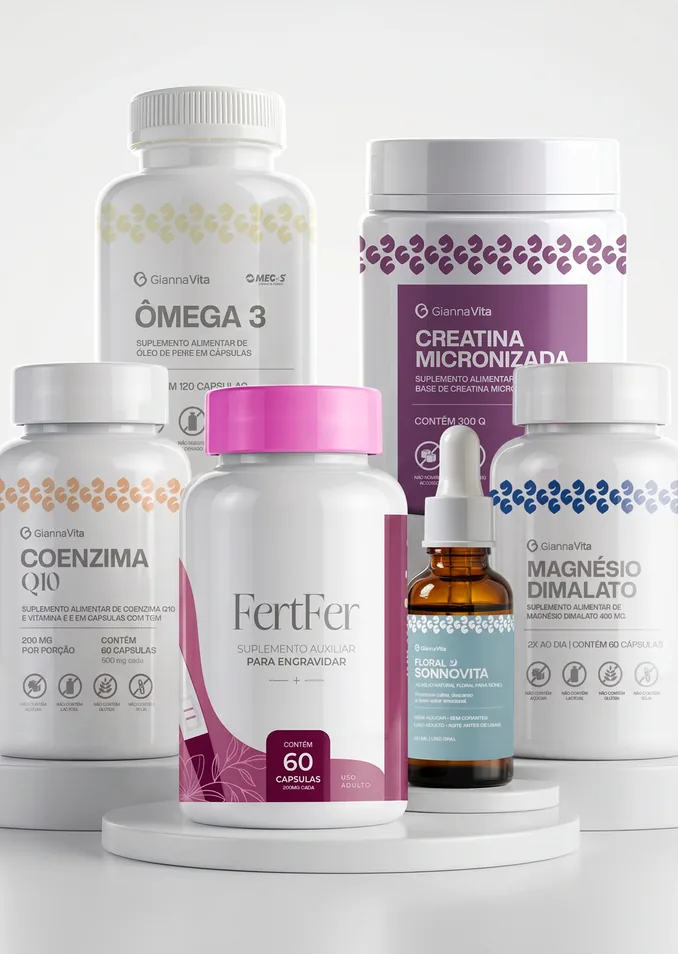
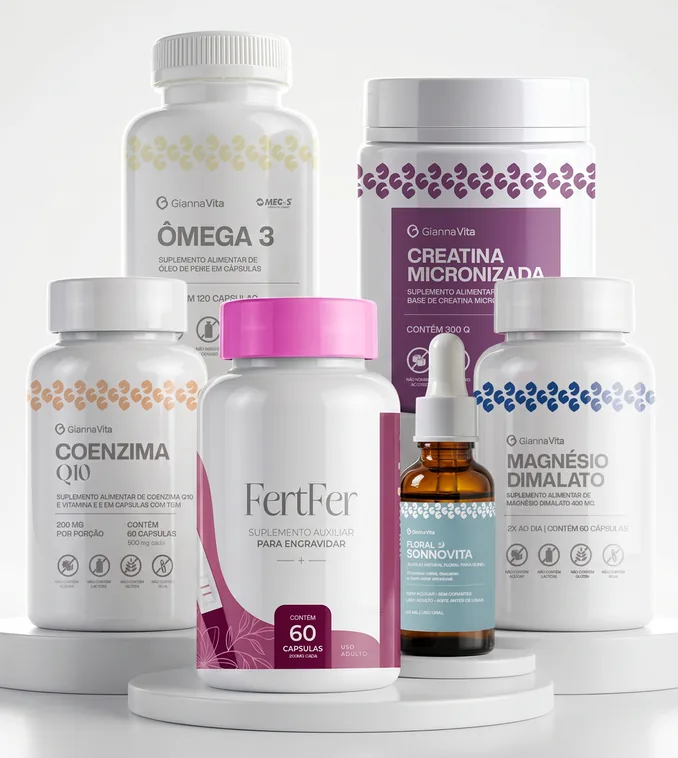
feat(pcbf26): checkout da página de vendas e aviso de envio do kit no upsell
- Vendas: link_checkout = checkout.grupoconceber.com/pay/black-friday-grupo-plataforma-consulta
  (Guru, "Programa Conceber BF", R$ 1.997,90 ou 12x R$ 197,90). Conferido
  no checkout real: name, email e phone_number chegam preenchidos.
  Liga o pré-checkout da página.
- Upsell: faixa vermelha "ENVIO A PARTIR DO DIA 05/11" no topo da foto do
  kit e foto reenquadrada, conforme o frame "UPSELL 2" do Figma (falta de
  estoque dos suplementos, pedido da Bruna).

diff --git a/pcbf26/upsell/index.html b/pcbf26/upsell/index.html
@@ -108,6 +108,14 @@ h1, h2, h3, p, ul { margin: 0; overflow-wrap: break-word; }
 .item-texto li { padding: clamp(5px, .7vw, 9px) 0; }
 .item-texto li + li { border-top: 1px solid #4a4a4a; }
 .item-img img { width: 100%; height: 100%; object-fit: cover; border-radius: 0 18px 18px 0; }
+/* aviso de envio do kit (Figma "UPSELL 2": faixa vermelha no topo da foto, por falta de estoque) */
+.item-img--kit { display: flex; flex-direction: column; background: #ee2f21; }
+.kit-envio {
+  padding: clamp(16px, 1.8vw, 23px) 8% clamp(14px, 1.4vw, 18px); color: var(--cinza); text-align: center;
+  font-size: var(--f24); font-weight: 800; text-transform: uppercase; line-height: 1.2;
+}
+@media (min-width: 901px) { .kit-envio { max-width: 11em; margin-inline: auto; padding-inline: 0; } }
+.item-img--kit img { flex: 1; min-height: 0; border-radius: 20px 20px 18px 0; }
 .kit { position: relative; }
 .kit-nota {
   margin-top: -91px; padding: calc(91px + clamp(18px, 2vw, 25px)) 8% clamp(24px, 2.5vw, 32px);
@@ -147,6 +155,8 @@ h1, h2, h3, p, ul { margin: 0; overflow-wrap: break-word; }
   .item { grid-template-columns: 1fr; }
   .item-img { order: -1; }
   .item-img img { height: auto; aspect-ratio: 16 / 10; border-radius: 18px 18px 0 0; }
+  .item-img--kit { border-radius: 18px 18px 0 0; overflow: hidden; }
+  .item-img--kit img { border-radius: 18px 18px 0 0; }
   .item-cabeca { margin-top: -2px; }
   .item h3, .item-texto > p, .item-texto ul { max-width: none; }
   .kit-nota { margin-top: -40px; padding: calc(40px + 22px) 18px 26px; }
@@ -215,8 +225,9 @@ h1, h2, h3, p, ul { margin: 0; overflow-wrap: break-word; }
                 <li>Creatina</li>
               </ul>
             </div>
-            <div class="item-img">
-              <img src="assets/kit-gianna-vita.webp" width="678" height="954" loading="lazy" alt="Kit Fertilidade Máxima Gianna Vita com cinco suplementos">
+            <div class="item-img item-img--kit">
+              <p class="kit-envio">Envio a partir do dia 05/11</p>
+              <img src="assets/kit-gianna-vita.webp" width="678" height="758" loading="lazy" alt="Kit Fertilidade Máxima Gianna Vita com cinco suplementos">
             </div>
           </article>
           <div class="kit-nota">

diff --git a/pcbf26/vendas/js/config.js b/pcbf26/vendas/js/config.js
@@ -3,7 +3,7 @@
    ============================================= */
 const CONFIG = {
   // Checkout da oferta Pink Friday (Guru ou Hotmart). Vazio = os botões levam pra seção da oferta, sem pré-checkout.
-  link_checkout: "",
+  link_checkout: "https://checkout.grupoconceber.com/pay/black-friday-grupo-plataforma-consulta",
 
   // Pré-checkout (mesmo fluxo da JPE: lead no process-lead e checkout com os dados preenchidos)
   lancamento: "PC-T57-BF",          // tag_form do "Programa Conceber BF" na tabela de mapeamento do n8n
